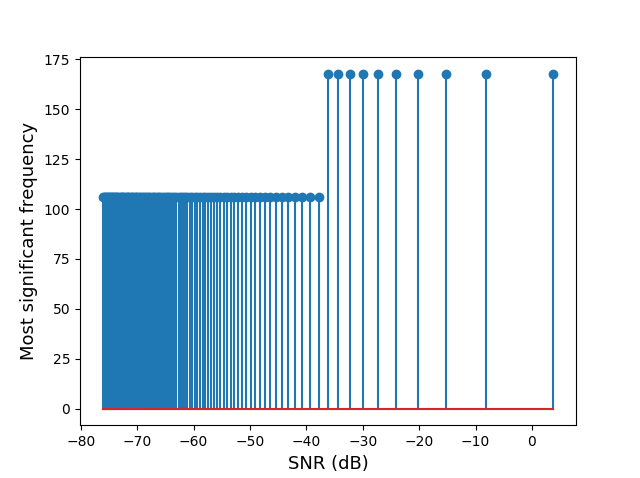
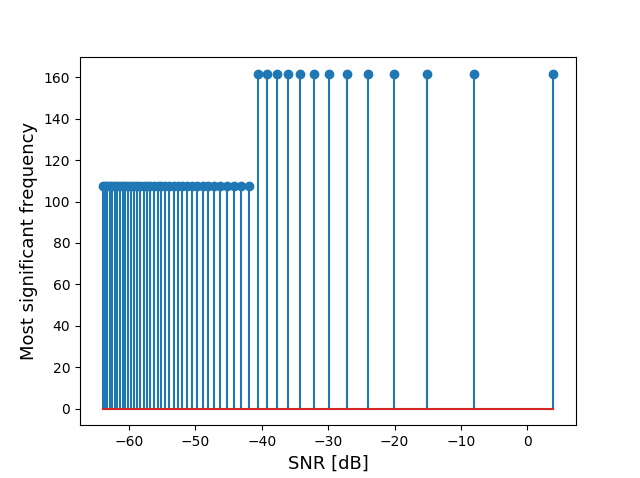
K

diff --git a/Rapport/sections/mainmatter/chapter_11/SNR.tex b/Rapport/sections/mainmatter/chapter_11/SNR.tex
@@ -21,7 +21,7 @@ The noise of clapping, singing, folding a piece of paper and ambient noise is ad
 \label{fig:single_noise}
 \end{figure}
 
-The noise-free signal has a most significant frequency of 167.58 Hz which approximately corresponds to a harmonic of $E_2$. By letting the SNR decrease and running the peak detection algorithm at each step of different SNRs the stem plot of most significant frequencies in figure \ref{fig:single_stem} is created. This plot shows when the peak detection fails to identify the most significant frequency in the signal. At SNR = -37.83 dB the peak detection algorithm no longer detects the right frequency but another frequency of 105.84 Hz which is assumed to be the most significant frequency of the noise added to the signal.
+The noise-free signal has a most significant frequency of 167.58 Hz which approximately corresponds to a harmonic of $E_2$. By letting the SNR decrease and running the peak detection algorithm at each step of different SNRs the stem plot of most significant frequencies in figure \ref{fig:single_stem} is created. This plot shows when the peak detection fails to identify the most significant frequency in the signal. At SNR = -41.89 dB the peak detection algorithm no longer detects the right frequency but another frequency of 105.84 Hz which is assumed to be the most significant frequency of the noise added to the signal.
 
 \subsection{White noise}
 A generated sampling of white noise is furthermore added to the single tone. Figure \ref{fig:white_spectrum} shows the frequency spectra of the signal, noise and filter.
